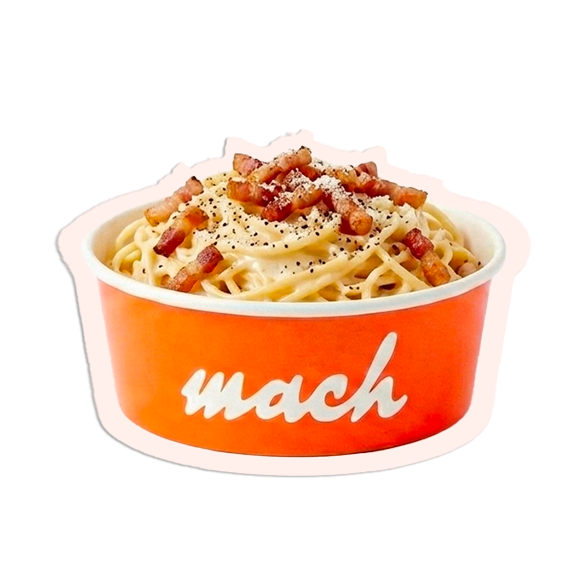
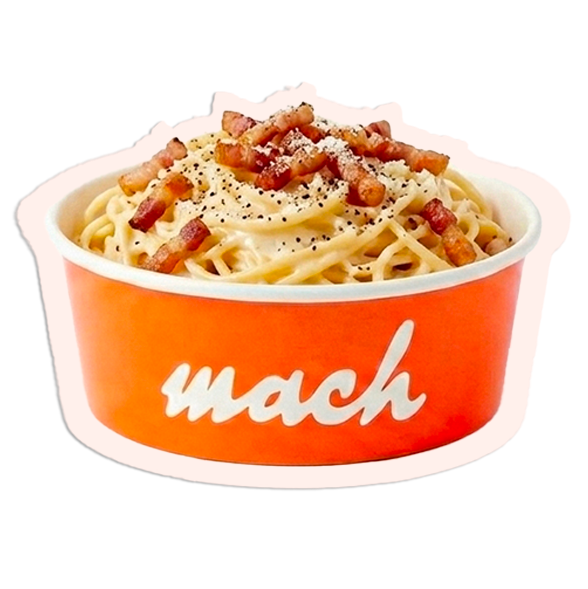
fix: unificar scale(1.1) en los tres stickers — mismas dimensiones de imagen

diff --git a/pidemach.html b/pidemach.html
@@ -190,12 +190,12 @@
     filter: drop-shadow(0 0 12px rgba(196, 74, 26, 0.45)) drop-shadow(0 8px 16px rgba(0,0,0,0.15)) !important;
   }
 
-  /* Individual sticker scales to normalize visual sizes */
+  /* Uniform sticker transforms — all same scale, only rotation differs */
   #card-mac .plato-thumb img {
-    transform: rotate(-6deg) scale(0.72);
+    transform: rotate(-6deg) scale(1.1);
   }
   #card-mac:hover .plato-thumb img {
-    transform: rotate(3deg) scale(0.78);
+    transform: rotate(3deg) scale(1.18);
   }
 
   #card-carb .plato-thumb img {
@@ -206,10 +206,10 @@
   }
 
   #card-mes .plato-thumb img {
-    transform: rotate(-6deg) scale(1.12);
+    transform: rotate(-6deg) scale(1.1);
   }
   #card-mes:hover .plato-thumb img {
-    transform: rotate(3deg) scale(1.2);
+    transform: rotate(3deg) scale(1.18);
   }
   .plato-card .plato-body { 
     flex:1; 
